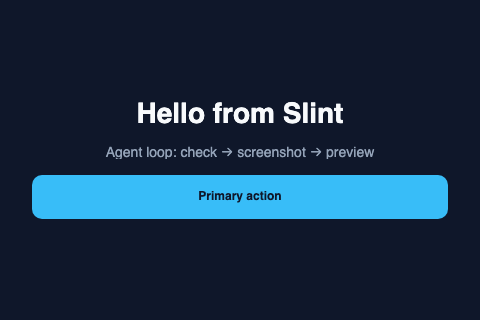
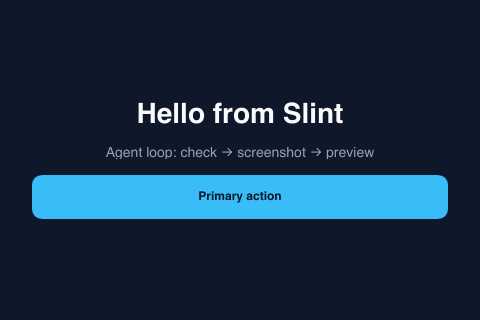
fix(plugins): correct slint-design preview poster and smoke cleanup
Remove od.preview.entry pointing at a .slint file (image previews use
poster only). Make smoke.sh trap-clean its temp dir, drop the redundant
GHA screenshot step that failed contrary to "best-effort", clarify that
viewer MCP needs the mcp Cargo feature, and regenerate hello-window.png
with pinned slint-viewer 1.18.1.

diff --git a/plugins/community/slint-design/SKILL.md b/plugins/community/slint-design/SKILL.md
@@ -24,7 +24,7 @@ portable to Claude Code and Cursor as a secondary host.
 
 ## Prerequisites
 
-- `slint-viewer` on `PATH`, **pinned to 1.18.1** for `--size` (1280×800 / 390×844) and optional viewer MCP. Compat floor for check/screenshot-only: ≥ 1.17.
+- `slint-viewer` on `PATH`, **pinned to 1.18.1** for `--size` (1280×800 / 390×844). Compat floor for check/screenshot-only: ≥ 1.17. Optional viewer MCP needs a binary built with Cargo feature `mcp` (not in default `cargo install`).
 - Optional: `slint-lsp` for editor diagnostics.
 - Docs MCP (when applied in OD): `https://docs.slint.dev/mcp`.
 
